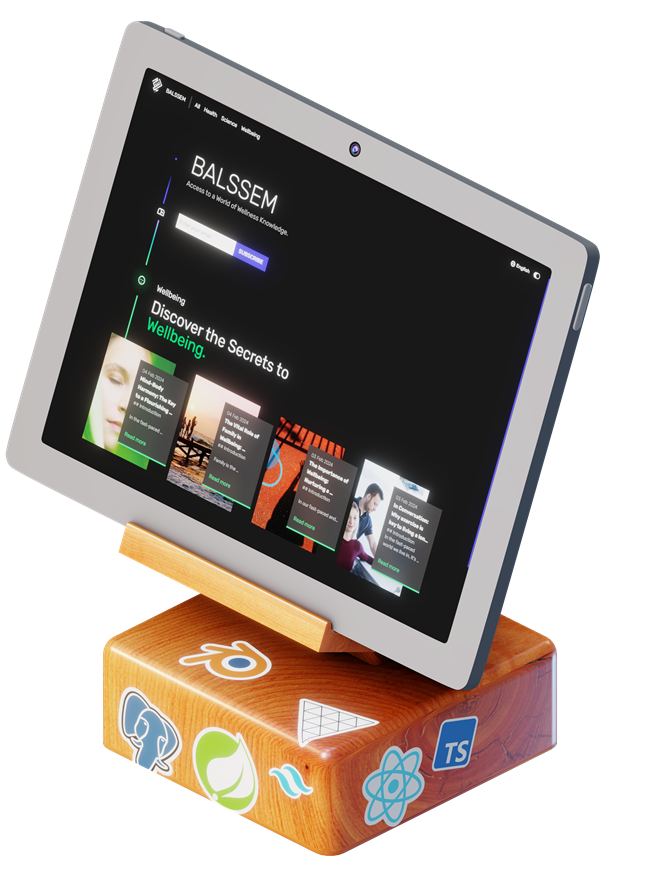
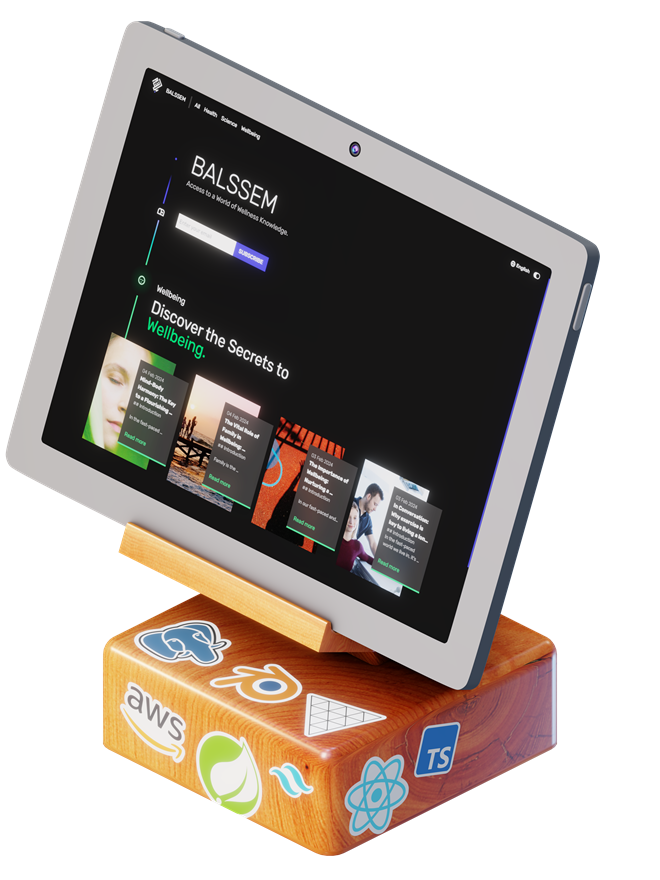
Update Works technologies

Changed region(s): [[0.1818, 0.7057, 0.5758, 0.9511], [0.5152, 0.7977, 0.7273, 0.9511]]

diff --git a/src/data/works.ts b/src/data/works.ts
@@ -13,7 +13,7 @@ export const works: WorkType[] = [
     {
         id: "1",
         title: "MyPortfolio",
-        subtitle: "MyPortfolio is a project I started in 2016, ",
+        subtitle: "A comprehensive portfolio showcasing my professional accomplishments, skills, and projects, providing a detailed overview of my expertise and achievements.",
         roles: ["Web Developer", "UI Designer"],
         collaborators: [],
         company: null,
@@ -25,14 +25,14 @@ export const works: WorkType[] = [
         images: [],
         video: null,
         awards: [],
-        technologies: [ Technology.React, Technology["Three.js"], Technology["Node.js"], Technology.Tailwind ],
+        technologies: [ Technology["React"], Technology["Three.js"], Technology["Node.js"], Technology["Tailwind"], Technology["Blender"], Technology["AWS"] ],
         category: Category.Web,
         isPrototype: false,
     },
     {
         id: "2",
         title: "Balssem",
-        subtitle: "Balssem, a health articles platform",
+        subtitle: "A health news website offering in-depth articles and reports on cutting-edge discoveries and advancements across various medical fields.",
         roles: ["Fullstack Developer"],
         collaborators: [],
         company: "Balssem ©",
@@ -44,14 +44,14 @@ export const works: WorkType[] = [
         images: [],
         video: null,
         awards: [],
-        technologies: [ Technology.React, Technology.Typescript, Technology["Three.js"] ],
+        technologies: [ Technology["Typescript"], Technology["Kotlin"], Technology["React"], Technology["Tailwind"], Technology["Three.js"], Technology["Blender"], Technology["Spring"], Technology["PostgreSQL"], Technology["AWS"] ],
         category: Category.Web,
         isPrototype: false,
     },
     {
         id: "3",
         title: "Hypefury - Companion app",
-        subtitle: "Vähk, a Flutter app that accompanies cancer patient",
+        subtitle: "An X (Twitter) post scheduler app where I revamped and improved the codebase and gave the app a whole new look.",
         roles: ["Mobile Developer", "UI Designer"],
         collaborators: [],
         company: "Hypefury",
@@ -67,15 +67,15 @@ export const works: WorkType[] = [
         ],
         video: null,
         awards: [],
-        technologies: [ Technology.Flutter, Technology.Dart, Technology.Android ],
+        technologies: [ Technology["Flutter"], Technology["Android"], Technology["Dart"], Technology["Kotlin"] ],
         category: Category.Mobile,
         isPrototype: false,
     },
     {
         id: "4",
         title: "iShop",
-        subtitle: "iShop, a complete mobile app for online shopping",
-        roles: ["Mobile Developer"],
+        subtitle: "A user-friendly mobile application designed for clients, allowing them to browse and shop conveniently on the platform.",
+        roles: ["Mobile Developer", "Backend Developer"],
         collaborators: [],
         company: null,
         link: null,
@@ -104,15 +104,15 @@ export const works: WorkType[] = [
         ],
         video: ishopDemo,
         awards: [],
-        technologies: [ Technology.Flutter, Technology.Dart, Technology.Android, Technology.Kotlin, Technology.Typescript ],
+        technologies: [ Technology["Flutter"], Technology["Android"], Technology["Dart"], Technology["Kotlin"], Technology["Node.js"], Technology["Typescript"], Technology["MongoDB"] ],
         category: Category.Mobile,
         isPrototype: false,
     },
     {
         id: "5",
         title: "iShopSeller",
-        subtitle: "Vähk, a Flutter app that accompanies cancer patient",
-        roles: ["Mobile Developer"],
+        subtitle: "A mobile application that lets e-commerce sellers to manage their stores, products, and track deliveries.",
+        roles: ["Mobile Developer", "Backend Developer"],
         collaborators: [],
         company: null,
         link: null,
@@ -141,14 +141,14 @@ export const works: WorkType[] = [
         ],
         video: ishopsellerDemo,
         awards: [],
-        technologies: [ Technology.Flutter, Technology.Dart, Technology.Android ],
+        technologies: [ Technology["Flutter"], Technology["Android"], Technology["Dart"], Technology["Kotlin"], Technology["Node.js"], Technology["Typescript"], Technology["MongoDB"] ],
         category: Category.Mobile,
         isPrototype: false,
     },
     {
         id: "6",
         title: "PAIN PAIN GO AWAY",
-        subtitle: "PAIN PAIN GO AWAY, a Flutter app that accompanies cancer patient",
+        subtitle: "Finalist in Junction Hackathon, Rovio challenge: a VR game that distracts children during medical procedures, providing anxiety metrics to doctors.",
         roles: ["Game Developer", "Game Artist"],
         collaborators: ["Peter Abreu", "Mykola Dolhyi"],
         company: null,
@@ -160,14 +160,14 @@ export const works: WorkType[] = [
         images: [],
         video: painpaingoawayDemo,
         awards: [],
-        technologies: [ Technology.Unity, Technology["C#"], Technology.Blender, Technology.Python, Technology.OpenCV ],
+        technologies: [ Technology["Unity"], Technology["C#"], Technology["Blender"], Technology["Python"], Technology["OpenCV"] ],
         category: Category.Game,
         isPrototype: true,
     },
     {
         id: "7",
         title: "DOOKLEE",
-        subtitle: "DOOKLEE, a Flutter app that accompanies cancer patient",
+        subtitle: "A crowdfunding platform enabling individuals abroad to raise funds for causes in their local towns. The SaaS was designed using Adobe XD and developed using React.js.",
         roles: ["UI Designer"],
         collaborators: ["Islam Neddar"],
         company: "DOOKLEE",
@@ -186,7 +186,7 @@ export const works: WorkType[] = [
     {
         id: "8",
         title: "Vähk",
-        subtitle: "Vähk, a Flutter app that accompanies cancer patient",
+        subtitle: "A mobile application that matches Cancer patients with Doctors, built with Flutter, it consumes an already existing API provided by the client.",
         roles: ["Mobile Developer"],
         collaborators: [],
         company: null,
@@ -198,14 +198,14 @@ export const works: WorkType[] = [
         images: [],
         video: null,
         awards: [],
-        technologies: [ Technology.Flutter, Technology.Dart, Technology.Android ],
+        technologies: [ Technology["Flutter"], Technology["Android"], Technology["Dart"], Technology["Kotlin"], Technology["Adobe XD"] ],
         category: Category.Mobile,
         isPrototype: false,
     },
     {
         id: "9",
         title: "El Waseel",
-        subtitle: "El Waseel mobile UI prototype",
+        subtitle: "1st prize Hackathon Project: A platform linking local institutions, government and citizens. Built with Flutter, Express.js, MongoDB, Azure NLP.",
         roles: ["Mobile Developer", "UI Designer"],
         collaborators: ["Mohamed Douzane", "Abdelhak Ouchar", "Adel Namani"],
         company: null,
@@ -217,7 +217,7 @@ export const works: WorkType[] = [
         images: [],
         video: elwaseelDemo,
         awards: ["1st prize at HackAlgeria"],
-        technologies: [ Technology.Flutter, Technology.Dart, Technology["Adobe XD"] ],
+        technologies: [ Technology["Flutter"], Technology["Dart"], Technology["Node.js"], Technology["Typescript"], Technology["MongoDB"], Technology["Azure"] ],
         category: Category.Mobile,
         isPrototype: true,
     },
@@ -236,7 +236,7 @@ export const works: WorkType[] = [
         images: [],
         video: null,
         awards: ["1st prize at HackAlgeria"],
-        technologies: [ Technology.Flutter, Technology.Dart, Technology["Adobe XD"] ],
+        technologies: [ Technology["Flutter"], Technology["Dart"], Technology["Firebase"], Technology["Adobe XD"] ],
         category: Category.Mobile,
         isPrototype: false,
     },

diff --git a/src/types/Technology.ts b/src/types/Technology.ts
@@ -2,8 +2,9 @@ enum Technology {
     "Kotlin", "Java", "Typescript", "Javascript", "Dart", "C#", "Python",
     "Android", "Flutter",
     "React", "Three.js", "Vue.js", "Tailwind", "Node.js",
-    "Spring", "Express.js", "PostgreSQL",
+    "Spring", "Express.js", "PostgreSQL", "MongoDB", "Firebase",
     "OpenCV", "Keras",
+    "AWS", "Azure",
     "Unity", "Blender",
     "Adobe XD",
 }
